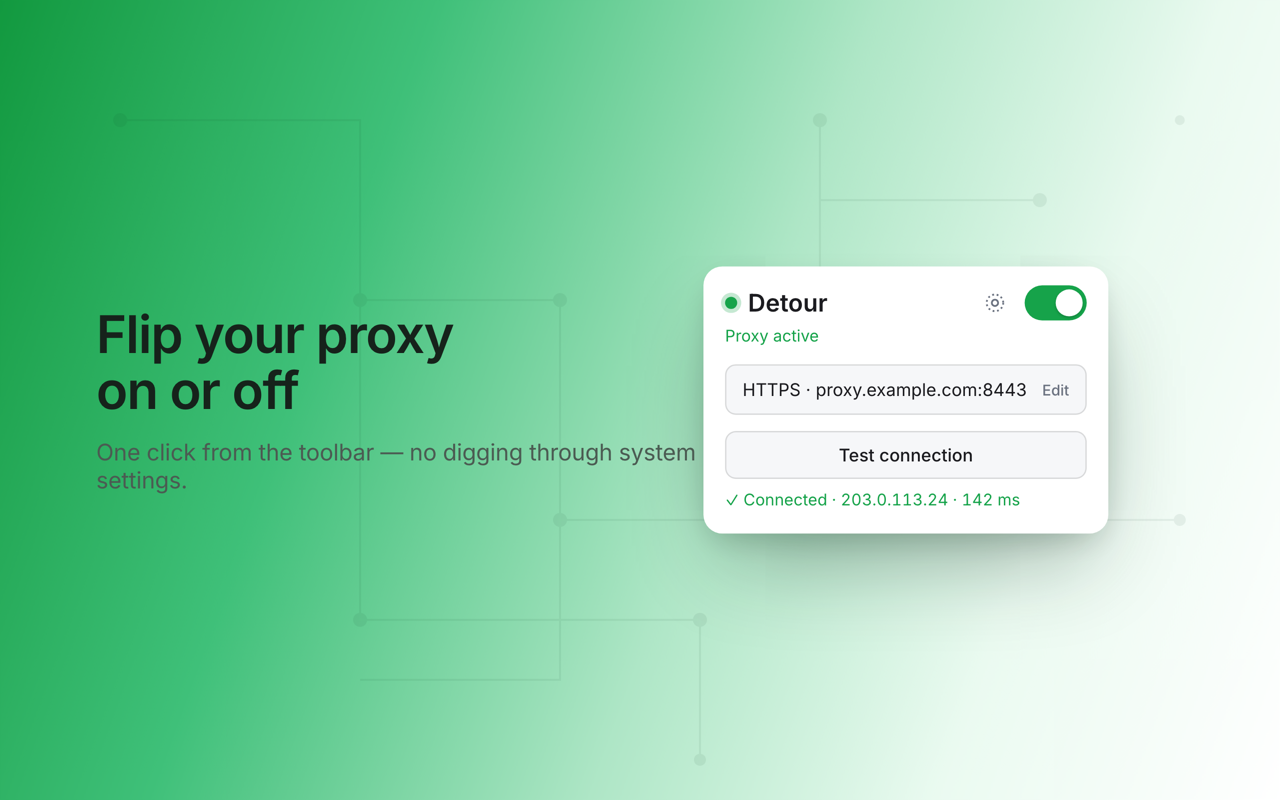
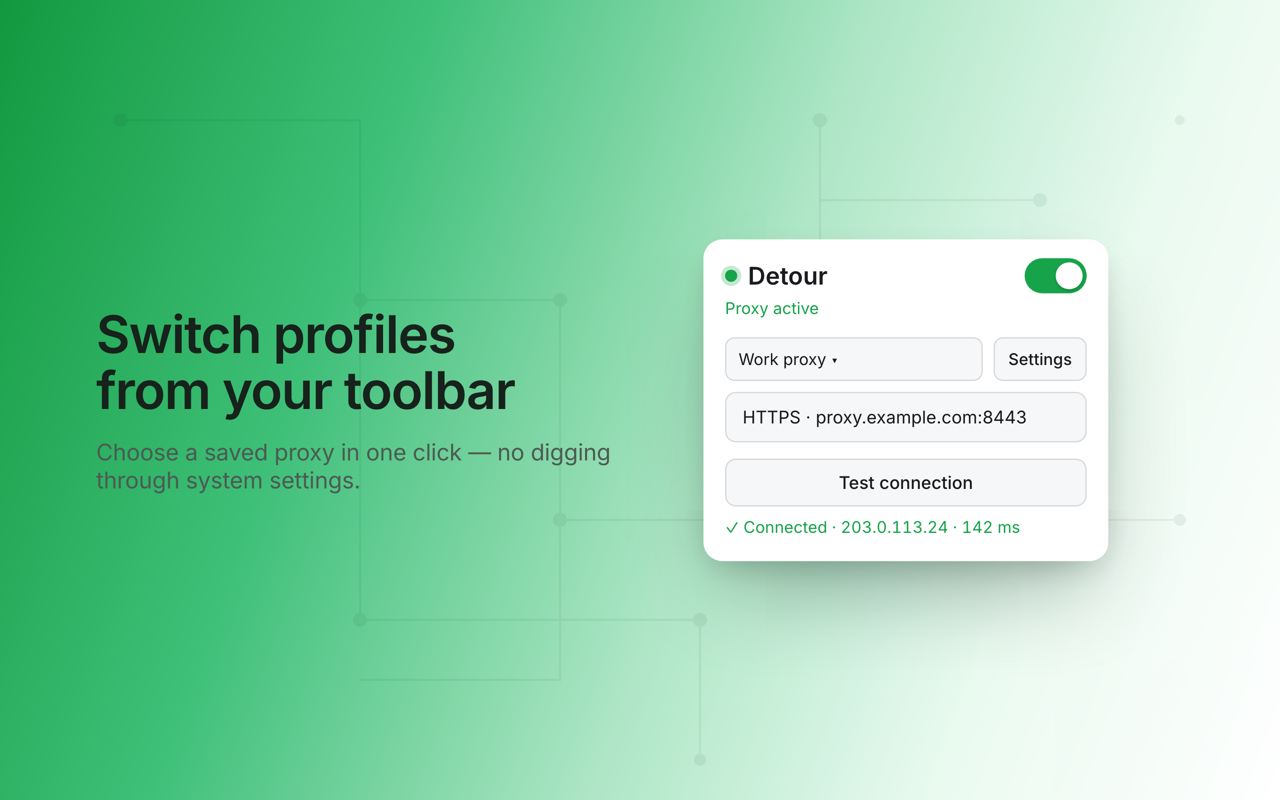
chore(store): promote named proxy profiles

Changed region(s): [[0.5312, 0.2812, 0.875, 0.75], [0.0625, 0.375, 0.4062, 0.5312], [0.0625, 0.5625, 0.5312, 0.625]]

diff --git a/store/assets/marquee-1400x560.html b/store/assets/marquee-1400x560.html
@@ -22,13 +22,13 @@
   <body>
     <div class="stage">
       <div class="copy">
-        <div class="h1">Switch proxies<br />in one click</div>
+        <div class="h1">Switch profiles<br />in one click</div>
         <div class="sub">
-          HTTP · HTTPS · SOCKS4/5 — with authentication, a bypass list, and a
-          one-click connection test.
+          Save HTTP, HTTPS, or SOCKS proxy profiles, then switch the active one
+          straight from your toolbar.
         </div>
         <div class="pills">
-          <span class="pill"><span class="tick">✓</span> Toolbar toggle</span>
+          <span class="pill"><span class="tick">✓</span> Named profiles</span>
           <span class="pill"><span class="tick">✓</span> Bypass list</span>
           <span class="pill"><span class="tick">✓</span> No data collected</span>
         </div>
@@ -40,20 +40,15 @@
             <div class="brand">
               <span class="dot on"></span><span class="name">Detour</span>
             </div>
-            <div class="actions">
-              <span class="gear">
-                <svg viewBox="0 0 24 24" width="16" height="16">
-                  <path fill="none" stroke="currentColor" stroke-width="2" stroke-linecap="round" stroke-linejoin="round" d="M12 15.5a3.5 3.5 0 1 0 0-7 3.5 3.5 0 0 0 0 7Z"/>
-                  <circle cx="12" cy="12" r="9.2" fill="none" stroke="currentColor" stroke-width="2" stroke-dasharray="2 3"/>
-                </svg>
-              </span>
-              <span class="switch on"><span class="knob"></span></span>
-            </div>
+            <span class="switch on"><span class="knob"></span></span>
           </div>
           <p class="status on">Proxy active</p>
+          <div class="profile-row">
+            <div class="profile-picker">Work proxy ▾</div>
+            <div class="settings-btn">Settings</div>
+          </div>
           <div class="summary">
             <span>SOCKS5 · 10.8.0.1:1080</span>
-            <span class="edit">Edit</span>
           </div>
           <div class="testbtn">Test connection</div>
           <p class="result ok">✓ Connected · 203.0.113.24 · 142 ms</p>

diff --git a/store/assets/screenshot-1-popup-1280x800.html b/store/assets/screenshot-1-popup-1280x800.html
@@ -22,8 +22,8 @@
   <body>
     <div class="stage">
       <div class="cap">
-        <span class="big">Flip your proxy<br />on or off</span>
-        <span class="lead">One click from the toolbar — no digging through system settings.</span>
+        <span class="big">Switch profiles<br />from your toolbar</span>
+        <span class="lead">Choose a saved proxy in one click — no digging through system settings.</span>
       </div>
       <div class="device">
         <div class="pop">
@@ -31,20 +31,15 @@
             <div class="brand">
               <span class="dot on"></span><span class="name">Detour</span>
             </div>
-            <div class="actions">
-              <span class="gear">
-                <svg viewBox="0 0 24 24" width="16" height="16">
-                  <path fill="none" stroke="currentColor" stroke-width="2" stroke-linecap="round" stroke-linejoin="round" d="M12 15.5a3.5 3.5 0 1 0 0-7 3.5 3.5 0 0 0 0 7Z"/>
-                  <circle cx="12" cy="12" r="9.2" fill="none" stroke="currentColor" stroke-width="2" stroke-dasharray="2 3"/>
-                </svg>
-              </span>
-              <span class="switch on"><span class="knob"></span></span>
-            </div>
+            <span class="switch on"><span class="knob"></span></span>
           </div>
           <p class="status on">Proxy active</p>
+          <div class="profile-row">
+            <div class="profile-picker">Work proxy ▾</div>
+            <div class="settings-btn">Settings</div>
+          </div>
           <div class="summary">
             <span>HTTPS · proxy.example.com:8443</span>
-            <span class="edit">Edit</span>
           </div>
           <div class="testbtn">Test connection</div>
           <p class="result ok">✓ Connected · 203.0.113.24 · 142 ms</p>

diff --git a/store/assets/screenshot-2-settings-1280x800.html b/store/assets/screenshot-2-settings-1280x800.html
@@ -22,8 +22,8 @@
   <body>
     <div class="stage">
       <div class="cap">
-        <span class="big">All your config<br />in one place</span>
-        <span class="lead">Server, credentials, bypass list, and backup — on a roomy settings page.</span>
+        <span class="big">Every profile,<br />in one place</span>
+        <span class="lead">Create and manage saved proxies, then switch the active one from the toolbar.</span>
       </div>
 
       <div class="device">
@@ -32,6 +32,22 @@
             <span class="dot on"></span>
             <h1>Detour</h1>
             <span class="sub2">Settings</span>
+          </div>
+
+          <div class="card">
+            <h2>Profiles</h2>
+            <div class="f">
+              <span class="f-label">Active profile</span>
+              <div class="f-input">Work proxy ▾</div>
+            </div>
+            <div class="row">
+              <div class="f"><span class="f-label">Profile name</span><div class="f-input">Work proxy</div></div>
+              <div class="f port"><span class="f-label">&nbsp;</span><div class="f-input" style="text-align:center">New</div></div>
+            </div>
+            <div class="btn-row">
+              <div class="testbtn">Duplicate</div>
+              <div class="testbtn">Delete</div>
+            </div>
           </div>
 
           <div class="card">

diff --git a/store/assets/listing.css b/store/assets/listing.css
@@ -168,16 +168,6 @@ body {
   gap: 8px;
 }
 
-.gear {
-  display: flex;
-  align-items: center;
-  justify-content: center;
-  width: 28px;
-  height: 26px;
-  border-radius: 8px;
-  color: var(--muted);
-}
-
 .switch {
   position: relative;
   width: 46px;
@@ -216,23 +206,41 @@ body {
   color: var(--accent);
 }
 
+.profile-row {
+  display: flex;
+  gap: 8px;
+  margin-bottom: 8px;
+}
+
+.profile-picker,
+.settings-btn {
+  padding: 8px 9px;
+  font-size: 12px;
+  color: var(--fg);
+  background: var(--card);
+  border: 1px solid var(--border);
+  border-radius: 7px;
+}
+
+.profile-picker {
+  flex: 1;
+}
+
+.settings-btn {
+  flex: 0 0 auto;
+  padding-inline: 10px;
+  font-weight: 500;
+}
+
 .summary {
   display: flex;
   align-items: center;
-  justify-content: space-between;
-  gap: 10px;
   margin-bottom: 12px;
   padding: 10px 12px;
   font-size: 13px;
   background: var(--card);
   border: 1px solid var(--border);
   border-radius: 8px;
-}
-
-.summary .edit {
-  font-size: 11px;
-  font-weight: 500;
-  color: var(--muted);
 }
 
 .testbtn {

diff --git a/store/assets/screenshot-3-features-1280x800.html b/store/assets/screenshot-3-features-1280x800.html
@@ -76,8 +76,8 @@
           <div><h3>Connection test</h3><p>Verify the proxy and see your exit IP before you commit.</p></div>
         </div>
         <div class="feat">
-          <span class="ic">⇩</span>
-          <div><h3>Import &amp; export</h3><p>Back up your setup or move it between machines as JSON.</p></div>
+          <span class="ic">▣</span>
+          <div><h3>Named profiles</h3><p>Save separate proxy setups and switch the active one from the toolbar.</p></div>
         </div>
         <div class="feat">
           <span class="ic">∅</span>

diff --git a/store/assets/tile-440x280.html b/store/assets/tile-440x280.html
@@ -41,7 +41,7 @@
           </svg>
         </div>
         <div class="h1">Detour</div>
-        <div class="sub">Switch proxies in one click — right from your toolbar.</div>
+        <div class="sub">Switch saved proxy profiles — right from your toolbar.</div>
       </div>
     </div>
   </body>

diff --git a/store/listing.md b/store/listing.md
@@ -8,8 +8,8 @@ into the dashboard. Character limits are noted per field — stay within them.
 
 ## Shared positioning
 
-**One-liner:** A simple, intuitive proxy switcher — toggle a proxy on or off
-from your toolbar.
+**One-liner:** A simple, intuitive proxy switcher — save profiles and switch
+between them from your toolbar.
 
 **Tone:** plain, honest, privacy-first. No hype, no "best ever", no emoji in the
 description body.
@@ -22,15 +22,18 @@ description body.
 Detour — Proxy Switcher
 
 ### Summary / short description (max 132)
-Toggle an HTTP, HTTPS, or SOCKS proxy on/off from your toolbar. With proxy auth,
-a bypass list, and a built-in connection test.
+Switch HTTP, HTTPS, or SOCKS proxy profiles from your toolbar. With auth, a
+bypass list, and a built-in connection test.
 
 ### Detailed description (max 16,000)
-Detour is a simple, intuitive proxy switcher. Flip a proxy on or off straight
-from the toolbar — no digging through system settings.
+Detour is a simple, intuitive proxy switcher. Save configurations as named
+profiles, switch the active one from the toolbar, and toggle it on or off — no
+digging through system settings.
 
 Features:
-- Toggle your proxy on or off in one click from the toolbar popup.
+- Save multiple named proxy profiles and switch the active one directly from
+  the toolbar popup.
+- Toggle the active proxy on or off in one click.
 - Supports HTTP, HTTPS, SOCKS4, and SOCKS5 proxies.
 - Username/password authentication for HTTP and HTTPS proxies.
 - Bypass list: choose hosts that connect directly, skipping the proxy. Use
@@ -38,8 +41,9 @@ Features:
   subdomains, or 10.0.0.0/8 for an IP range.
 - Built-in connection test that reports your exit IP and latency before you
   commit.
-- Dedicated settings page for the full configuration, with import/export of your
-  setup to a JSON file for backup or moving between machines.
+- Dedicated settings page to create, rename, duplicate, or delete profiles,
+  with import/export of all profiles to a JSON file for backup or moving
+  between machines.
 - An ON badge on the toolbar icon shows at a glance when the proxy is active.
 
 Privacy:
@@ -62,16 +66,19 @@ Tools / Productivity
 Detour — Proxy Switcher
 
 ### Summary (max 250)
-A simple, intuitive proxy switcher. Toggle an HTTP, HTTPS, SOCKS4, or SOCKS5
-proxy on and off from your toolbar — with authentication (including SOCKS), a
-bypass list, a connection test, and import/export. No data collection.
+A simple, intuitive proxy switcher. Save and switch HTTP, HTTPS, SOCKS4, or
+SOCKS5 proxy profiles from your toolbar — with authentication (including
+SOCKS), a bypass list, a connection test, and import/export. No data collection.
 
 ### Description
-Detour is a simple, intuitive proxy switcher. Flip a proxy on or off straight
-from the toolbar — no digging through system settings.
+Detour is a simple, intuitive proxy switcher. Save configurations as named
+profiles, switch the active one from the toolbar, and toggle it on or off — no
+digging through system settings.
 
 Features:
-- Toggle your proxy on or off in one click from the toolbar popup.
+- Save multiple named proxy profiles and switch the active one directly from
+  the toolbar popup.
+- Toggle the active proxy on or off in one click.
 - Supports HTTP, HTTPS, SOCKS4, and SOCKS5 proxies.
 - Username/password authentication for every scheme — including SOCKS, which
   Firefox supports natively.
@@ -80,14 +87,24 @@ Features:
   subdomains, or 10.0.0.0/8 for an IP range.
 - Built-in connection test that reports your exit IP and latency before you
   commit.
-- Dedicated settings page for the full configuration, with import/export of your
-  setup to a JSON file for backup or moving between machines.
+- Dedicated settings page to create, rename, duplicate, or delete profiles,
+  with import/export of all profiles to a JSON file for backup or moving
+  between machines.
 - An ON badge on the toolbar icon shows at a glance when the proxy is active.
 
 Privacy:
 Detour collects no data. There is no analytics, no tracking, and no remote code.
 Your proxy details and credentials stay in your browser's local storage and are
 never sent to us or anyone else. Detour is open source.
+
+### Screenshot captions (English (US))
+
+1. Switch between saved proxy profiles directly from the toolbar, toggle the
+   active proxy, and test the connection.
+2. Create, name, duplicate, and manage proxy profiles alongside server
+   settings, bypass rules, and backup.
+3. HTTP, HTTPS, and SOCKS support, authentication, named profiles, bypass
+   rules, connection testing, and no data collection.
 
 ### Categories
 Privacy & Security / Other
@@ -99,7 +116,8 @@ Privacy & Security / Other
 Reviewers ask why each permission is needed. Reuse these verbatim.
 
 - **proxy** — core feature: apply and release the proxy configuration.
-- **storage** — persist the user's proxy profile locally between sessions.
+- **storage** — persist the user's proxy profiles and active selection locally
+  between sessions.
 - **webRequest** — detect proxy authentication challenges (onAuthRequired).
 - **webRequestAuthProvider** (Chromium) / **webRequestBlocking** (Firefox) —
   supply the saved username/password in response to a proxy auth challenge.
